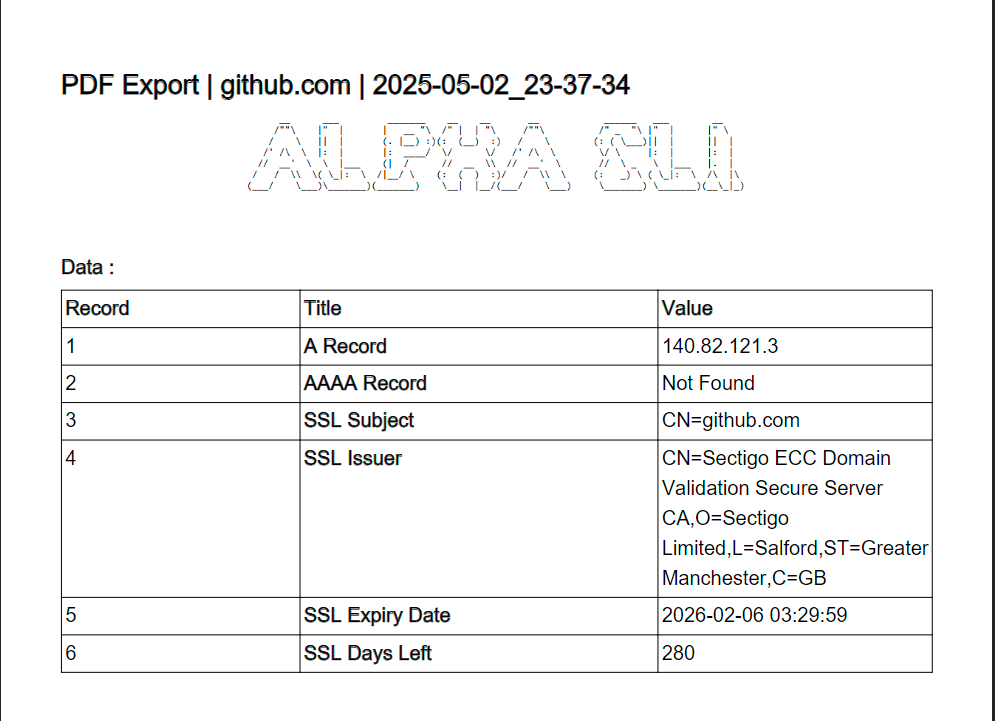
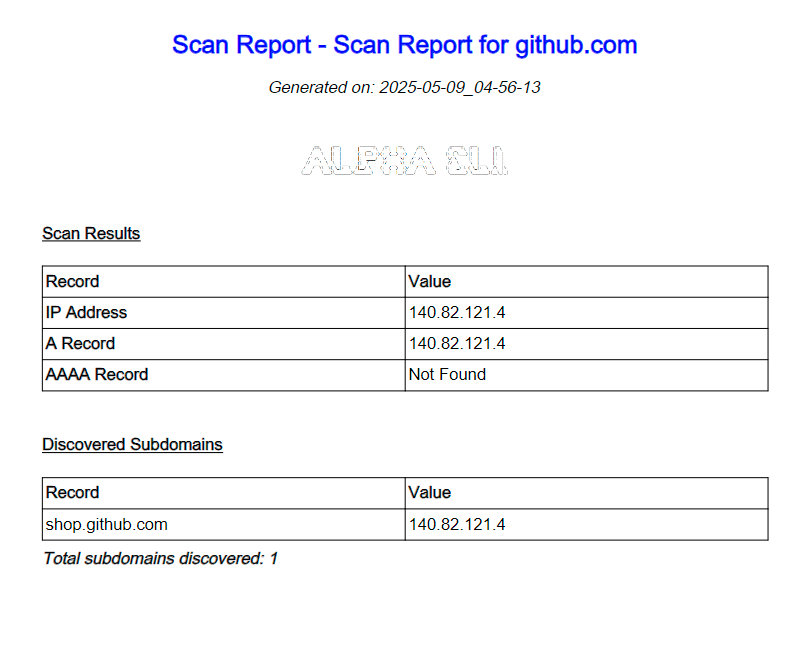
edit readme

diff --git a/src/main/java/com/alphacli/Apps/ExportPDF.java b/src/main/java/com/alphacli/Apps/ExportPDF.java
@@ -38,7 +38,7 @@ public class ExportPDF {
     private String ssl_issuer;
     private String ssl_expiry_data;
     private String ssl_day_lefts;
-    private List<Map<String, String>> subdomains; // لیست سابدامنهها
+    private List<Map<String, String>> subdomains;
 
     public ExportPDF(String title) {
         this.title = title;
@@ -55,23 +55,23 @@ public class ExportPDF {
             String timestamp = dateFormat.format(new Date());
             String name = "src/main/resources/exports/Report_" + timestamp + ".pdf";
             
-            // ایجاد دایرکتوری اگر وجود نداشته باشد
+
             new File("src/main/resources/exports").mkdirs();
             
             PdfWriter writer = new PdfWriter(new File(name));
             PdfDocument pdf = new PdfDocument(writer);
             Document document = new Document(pdf);
 
-            // هدر گزارش
+
             addReportHeader(document, timestamp);
             
-            // اضافه کردن لوگو
+
             addLogo(document);
             
-            // بخش اطلاعات اصلی
+
             addMainInfoSection(document);
             
-            // بخش سابدامنهها
+
             if (subdomains != null && !subdomains.isEmpty()) {
                 addSubdomainsSection(document);
             }
@@ -121,10 +121,10 @@ public class ExportPDF {
                 .useAllAvailableWidth()
                 .setMarginTop(10);
         
-        // هدر جدول
+
         addTableHeader(mainTable);
         
-        // اضافه کردن رکوردها
+
         addRecordIfExists(mainTable, "IP Address", ip);
         addRecordIfExists(mainTable, "A Record", a_records);
         addRecordIfExists(mainTable, "AAAA Record", aaaa_records);
@@ -149,24 +149,24 @@ public class ExportPDF {
                 .useAllAvailableWidth()
                 .setMarginTop(10);
         
-        // هدر جدول سابدامنهها
+
         addTableHeader(subdomainsTable);
         
-        // اضافه کردن سابدامنهها
-        // int counter = 1;
+
+
         for (Map<String, String> subdomain : subdomains) {
             String subdomainName = subdomain.get("name");
             String subdomainIp = subdomain.get("ip");
             
-            // subdomainsTable.addCell(new Cell().add(new Paragraph(String.valueOf(counter++)))
-                                                // .setTextAlignment(TextAlignment.CENTER));
+
+
             subdomainsTable.addCell(new Cell().add(new Paragraph(subdomainName)));
             subdomainsTable.addCell(new Cell().add(new Paragraph(subdomainIp != null ? subdomainIp : "N/A")));
         }
         
         document.add(subdomainsTable);
         
-        // خلاصه سابدامنهها
+
         Paragraph summary = new Paragraph(String.format(
                 "Total subdomains discovered: %d", subdomains.size()))
                 .setBold()

diff --git a/src/main/java/com/alphacli/Apps/SubdomainScanner.java b/src/main/java/com/alphacli/Apps/SubdomainScanner.java
@@ -21,7 +21,7 @@ public class SubdomainScanner {
             String line;
             while ((line = reader.readLine()) != null) {
                 line = line.trim();
-                if (!line.isEmpty() && !line.startsWith("#")) { // خطوط خالی و کامنتها را نادیده بگیر
+                if (!line.isEmpty() && !line.startsWith("#")) { 
                     subdomains.add(line);
                 }
             }
@@ -46,13 +46,13 @@ public class SubdomainScanner {
         List<Future<SubdomainResult>> futures = new ArrayList<>();
         List<SubdomainResult> results = new ArrayList<>();
         
-        // Submit all scanning tasks
+        
         for (String sub : lines) {
             String fullSubdomain = sub + "." + domain;
             futures.add(executor.submit(() -> scanSubdomain(fullSubdomain)));
         }
         
-        // Process results
+        
         int foundCount = 0;
         for (Future<SubdomainResult> future : futures) {
             try {

diff --git a/readme.md b/readme.md
@@ -1,4 +1,4 @@
-# Alpha CLI (V1.3) - Domain to IP Resolver
+# Alpha CLI (V1.5) - Domain to IP Resolver
 
 ![export pdf](img/sample.png)  
 
@@ -50,7 +50,7 @@ Alpha CLI is a powerful Java-based command-line utility that resolves domain nam
 
 3. **Run the application**:
    ```bash
-   java -jar target/alpha-cli-1.0-SNAPSHOT-jar-with-dependencies.jar -d yahoo.com -ip
+   java -jar target/alpha-cli-1.5-jar-with-dependencies.jar -d yahoo.com -ip
    ```
 
 ## Usage
@@ -85,6 +85,8 @@ java -jar alpha-cli.jar --help
 | `-NS`   | Target NS Record           |
 | `-SOA`  | Target SOA Record          |
 | `-TXT`  | Target TXT Record          |
+| `-subscan`  | scan target subdomains          |
+| `-subpath`  | targets subdomain files          |
 | `-sslc`  | Check Target SSL          |
 | `-epdf`       | Export results as PDF                |
 
@@ -162,7 +164,7 @@ Using jpackage (requires JDK 14+):
 ```bash
 jpackage --input target/ \
          --name AlphaCLI \
-         --main-jar alpha-cli-1.0-SNAPSHOT-jar-with-dependencies.jar \
+         --main-jar alpha-cli-1.5-jar-with-dependencies.jar \
          --main-class com.alphacli.app.App \
          --type exe \
          --win-console
